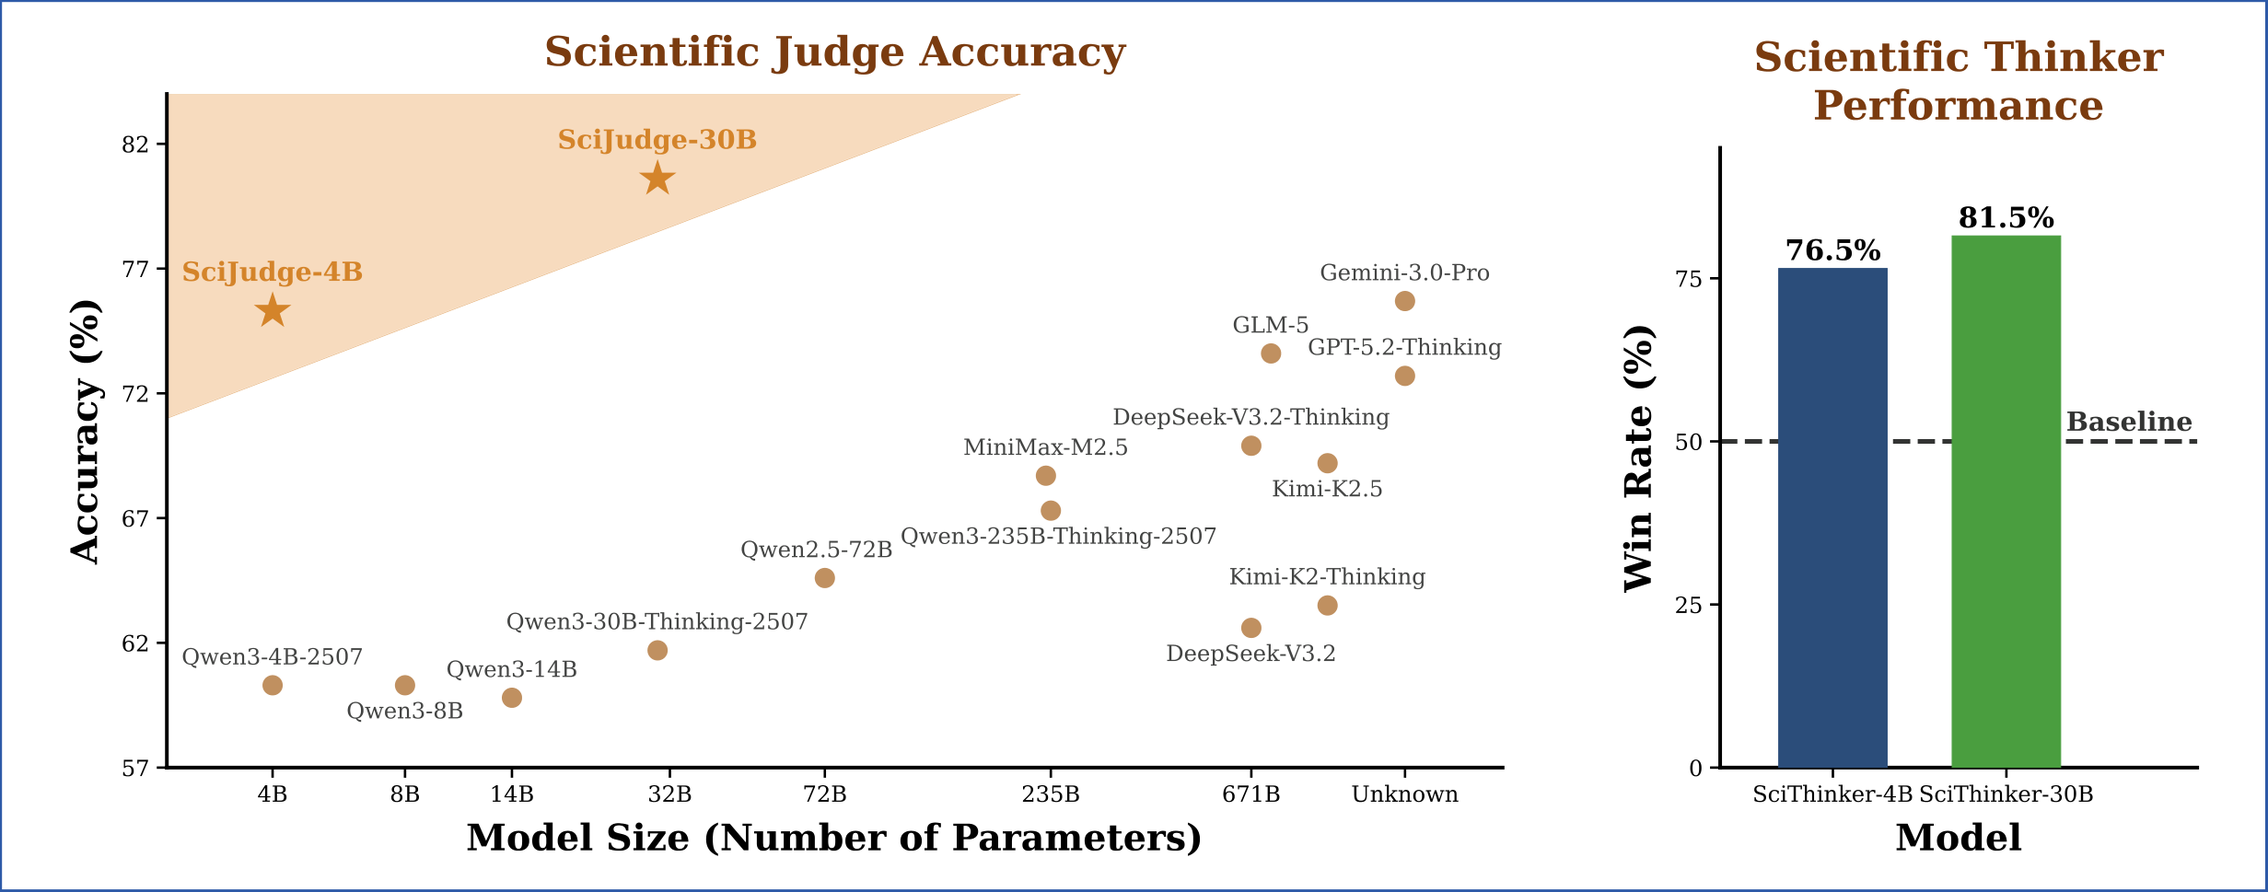
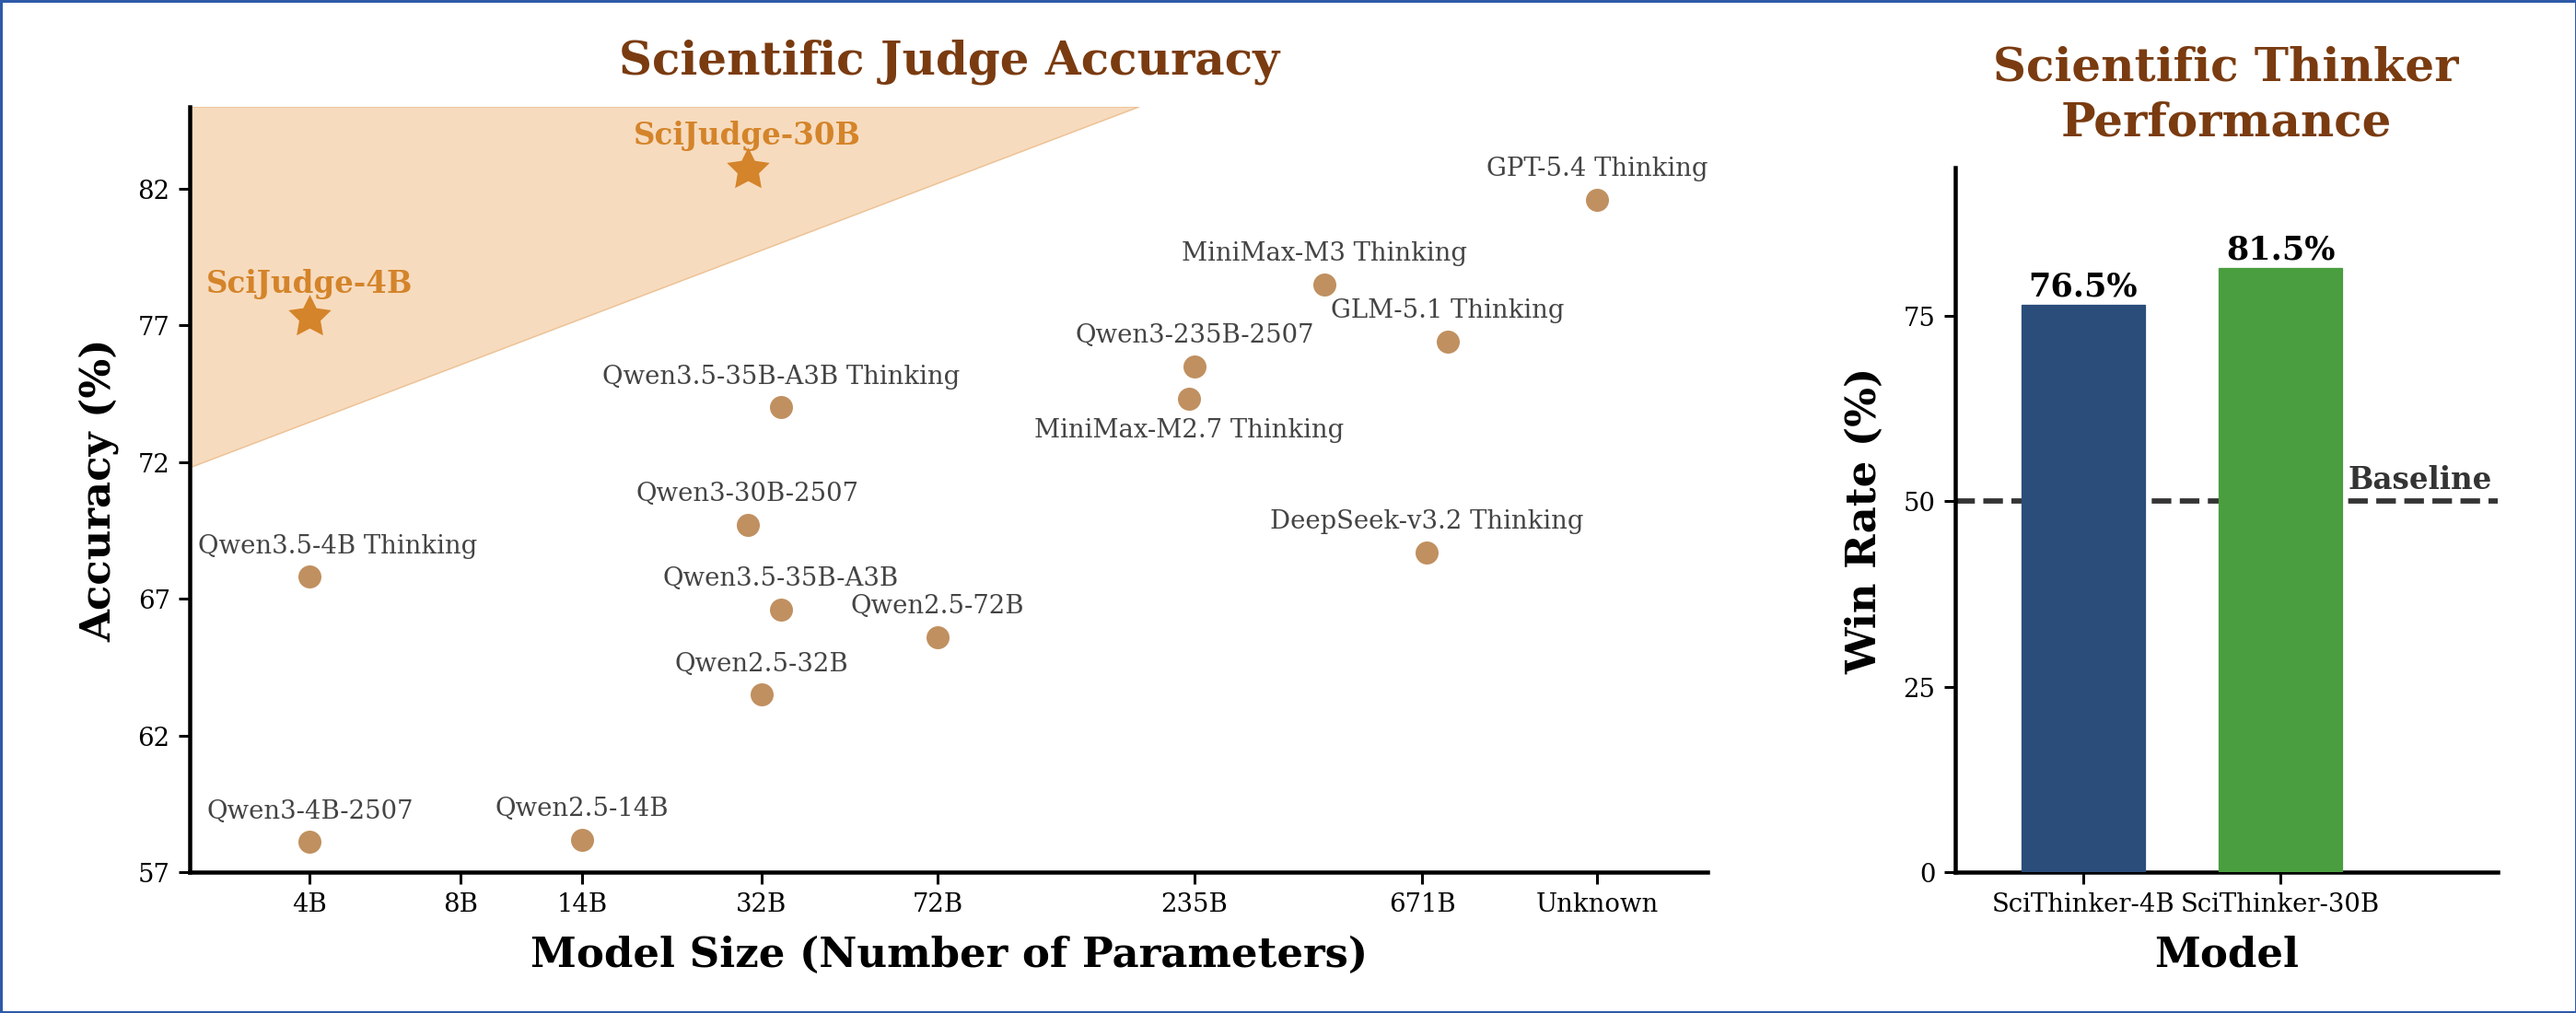
docs: refresh benchmark results

diff --git a/README_zh.md b/README_zh.md
@@ -21,6 +21,7 @@
 
 ## 🎊 最新动态
 
+- [2026.07] 📊 已更新 2025 年 Future-Year 基准与评估结果（904 对）。
 - [2026.07] 🤗 SciJudge-2506 系列已在 Hugging Face 更新。[[Collection](https://huggingface.co/collections/OpenMOSS-Team/ai-can-learn-scientific-taste)]
 - [2026.03] 🎮 在线 Demo 现已上线！[[Demo](https://paperank.open-moss.com/)]
 - [2026.03] 📄 论文已发布在 arXiv 上。[[arXiv](https://arxiv.org/abs/2603.14473)]
@@ -41,7 +42,7 @@
 
 我们提出了**基于社区反馈的强化学习（RLCF）**，这是一种利用大规模社区信号作为监督的训练范式，将科研品味的学习建模为偏好建模与对齐问题。
 
-为此，我们构建了 **SciJudgeBench**，一个包含 **696,758** 个领域和时间匹配论文对的大规模基准，来源于截至 2024 年发表的 **210 万**篇 arXiv 论文。我们在此基础上训练了：
+为此，我们构建了 **SciJudgeBench**，一个包含 **720,341** 个领域和时间匹配论文对的大规模基准，来源于截至 2024 年发表的 **210 万** 篇 arXiv 论文。我们在此基础上训练了：
 
 - **Scientific Judge**：一个生成式奖励模型，预测论文对中哪篇更可能产生更高影响力。
 - **Scientific Thinker**：一个策略模型，提出更具潜在影响力的后续研究想法。
@@ -66,7 +67,7 @@ RLCF 包含三个阶段：
 ### Scientific Judge
 
 - 一个生成式奖励模型，对配对论文摘要进行推理，预测哪篇具有更高的潜在影响力。
-- 使用 GRPO 在 696K 个领域和时间匹配的基于引用的偏好对上训练。
+- 使用 GRPO 在 720K 个领域和时间匹配的基于引用的偏好对上训练。
 - 既可作为研究想法的评估器，也可作为 Scientific Thinker 训练的奖励模型。
 
 ### Scientific Thinker
@@ -77,18 +78,19 @@ RLCF 包含三个阶段：
 
 ### SciJudgeBench
 
-- **696,758** 个偏好对，约 **140 万**篇独立论文。
+- **720,341** 个偏好对，对应 **1,440,682** 条配对层面的论文记录；同一论文可能出现在多个配对中，因此这不是独立论文数量。
 - 来源于**计算机科学**、**数学**、**物理**及**其他**科学领域的 arXiv 论文。
-- 在三种主要设置下评估：**域内**、**时间 OOD**（未来年份论文）和**指标 OOD**（ICLR 同行评审），另加 **bioRxiv** 作为跨领域补充评估。
+- 在域内、**时间 OOD**（来自 2025 年论文的 904 对）、**指标 OOD**（ICLR 同行评审分数与 Altmetric 注意力分数）、跨领域迁移及受控比较等设置下评估，另以 **bioRxiv** 作为补充生物学评估。
 
 ## 📈 主要结果
 
 我们的论文表明，科研品味可以被学习和迁移：
 
 - **科学判断力随数据规模和模型规模增长**而提升。
-- **Scientific Judge-Qwen3-30B 超越了 GPT-5.2、GLM-5 和 Gemini 3 Pro**，在域内评估中达到 80.6（最佳基线为 75.7），并泛化至未来年份论文（相对基座模型 +55.1）和 ICLR 同行评审偏好。
-- **习得的判断力可以泛化**——跨时间、跨领域（bioRxiv），从引用偏好到同行评审偏好。
-- **Scientific Thinker 达到 54.2% 的平均胜率**，超越 GPT-5.2、GLM-5 和 Gemini 3 Pro，大幅优于其基座策略模型（30.3%），在域内和域外设置上均表现出色。
+- **Scientific Judge-Qwen3-30B 的域内准确率达到 82.7%**，超过所有列出的强 LLM 基线，其中 GPT-5.4 Thinking 为 81.6%。
+- **习得的判断力可迁移至未来年份论文：**在由 2025 年论文构成、更新后的 904 对测试集上，Qwen3-4B 从 64.7% 提升至 80.9%（+16.2 个百分点），Qwen3-30B-A3B 从 71.7% 提升至 83.1%（+11.4 个百分点）。
+- **习得的判断力可跨领域和社区指标泛化**，包括 bioRxiv 生物学迁移、ICLR 同行评审偏好和 Altmetric 注意力；其增益在作者/机构及主题受控比较中仍然保持。
+- **Scientific Thinker 在域内和域外设置中，对三个强 LLM 基线的平均胜率均达到 54.2%**，其基座策略模型的对应结果分别为 30.3% 和 27.8%。
 
 <div align="center">
   <img src="assets/performance_teaser.png" width="100%" alt="主要性能结果" />
@@ -101,7 +103,7 @@ RLCF 包含三个阶段：
 ```bibtex
 @misc{tong2026ailearnscientifictaste,
     title={AI Can Learn Scientific Taste},
-    author={Jingqi Tong and Mingzhe Li and Hangcheng Li and Yongzhuo Yang and Yurong Mou and Weijie Ma and Zhiheng Xi and Hongji Chen and Xiaoran Liu and Qinyuan Cheng and Ming Zhang and Qiguang Chen and Weifeng Ge and Qipeng Guo and Tianlei Ying and Tianxiang Sun and Yining Zheng and Xinchi Chen and Jun Zhao and Ning Ding and Xuanjing Huang and Yugang Jiang and Xipeng Qiu},
+    author={Jingqi Tong and Mingzhe Li and Hangcheng Li and Yongzhuo Yang and Yurong Mou and Weijie Ma and Zhiheng Xi and Hongji Chen and Xiaoran Liu and Qinyuan Cheng and Ming Zhang and Qiguang Chen and Weifeng Ge and Qipeng Guo and Tianlei Ying and Tianxiang Sun and Yining Zheng and Xinchi Chen and Jun Zhao and Ning Ding and Xuanjing Huang and Yu-Gang Jiang and Xipeng Qiu},
     year={2026},
     eprint={2603.14473},
     archivePrefix={arXiv},
@@ -113,5 +115,3 @@ RLCF 包含三个阶段：
 ## ⚖ 许可证
 
 本项目采用 Apache License 2.0 许可证。详见 [LICENSE](LICENSE)。
-
-> **注意：** 目前发布的训练集与测试集为更新版本，数据质量有所提升，但不影响论文中的实验结论。论文中的实验结果基于先前版本的数据，新数据对应的结果将尽快更新。此外，更大尺寸和更新架构（Qwen3.5 系列）的模型仍在训练中，敬请期待！

diff --git a/README.md b/README.md
@@ -21,6 +21,7 @@ English | [中文](README_zh.md)
 
 ## 🎊 News
 
+- [2026.07] 📊 The 2025 Future-Year benchmark and evaluation results have been refreshed (904 pairs).
 - [2026.07] 🤗 The SciJudge-2506 series has been updated on Hugging Face. [[Collection](https://huggingface.co/collections/OpenMOSS-Team/ai-can-learn-scientific-taste)]
 - [2026.03] 🎮 Online Demo is now available! [[Demo](https://paperank.open-moss.com/)]
 - [2026.03] 📄 Paper available on arXiv. [[arXiv](https://arxiv.org/abs/2603.14473)]
@@ -41,7 +42,7 @@ Great scientists have strong judgement and foresight, closely tied to what we ca
 
 We propose **Reinforcement Learning from Community Feedback (RLCF)**, a training paradigm that uses large-scale community signals as supervision and formulates scientific taste learning as a preference modeling and alignment problem.
 
-To make this possible, we construct **SciJudgeBench**, a large-scale benchmark of **696,758** field- and time-matched paper pairs derived from **2.1M** arXiv papers published through 2024. We then train:
+To make this possible, we construct **SciJudgeBench**, a large-scale benchmark of **720,341** field- and time-matched paper pairs derived from **2.1M** arXiv papers published through 2024. We then train:
 
 - **Scientific Judge**: a generative reward model that predicts which paper in a pair is more likely to have higher impact.
 - **Scientific Thinker**: a policy model that proposes follow-up research ideas with higher potential impact.
@@ -66,7 +67,7 @@ RLCF consists of three stages:
 ### Scientific Judge
 
 - A generative reward model that reasons over paired paper abstracts and predicts which has higher potential impact.
-- Trained with GRPO on 696K field- and time-matched citation-based preference pairs.
+- Trained with GRPO on 720K field- and time-matched citation-based preference pairs.
 - Serves both as an evaluator of research ideas and as the reward model for Scientific Thinker training.
 
 ### Scientific Thinker
@@ -77,18 +78,19 @@ RLCF consists of three stages:
 
 ### SciJudgeBench
 
-- **696,758** preference pairs and roughly **1.4M** unique papers.
+- **720,341** preference pairs and **1,440,682** pair-level paper records; papers may recur across pairs, so this is not a unique-paper count.
 - Built from arXiv papers across **Computer Science**, **Mathematics**, **Physics**, and **Other** scientific fields.
-- Evaluated on three main settings: **in-domain**, **temporal OOD** (future-year papers), and **metric OOD** (ICLR peer review), plus **bioRxiv** as an additional cross-field evaluation.
+- Evaluated in-domain and across **temporal OOD** (904 pairs from papers published in 2025), **metric OOD** (ICLR peer review and Altmetric attention), field-transfer, and controlled-comparison settings, with **bioRxiv** as an additional biology evaluation.
 
 ## 📈 Key Results
 
 Our paper shows that scientific taste can be learned and transferred:
 
 - **Scientific judgement scales** with both data size and model size.
-- **Scientific Judge-Qwen3-30B surpasses GPT-5.2, GLM-5, and Gemini 3 Pro** on in-domain evaluation (80.6 vs. 75.7 for the best baseline), and generalizes to future-year papers (+55.1 points over base) and ICLR peer-review preference.
-- **Learned judgement generalizes** across time, across fields (bioRxiv), and from citations to peer-review preferences.
-- **Scientific Thinker achieves 54.2% average win-rate** against GPT-5.2, GLM-5, and Gemini 3 Pro, strongly outperforming its base policy (30.3%) on both in-domain and out-of-domain settings.
+- **Scientific Judge-Qwen3-30B reaches 82.7% in-domain accuracy**, surpassing all listed strong LLM baselines, including GPT-5.4 Thinking at 81.6%.
+- **Learned judgement transfers to future-year papers:** on the refreshed 904-pair test set from papers published in 2025, Qwen3-4B improves from 64.7% to 80.9% (+16.2 points), and Qwen3-30B-A3B improves from 71.7% to 83.1% (+11.4 points).
+- **Learned judgement generalizes** across fields and community metrics, including bioRxiv biology transfer, ICLR peer-review preferences, and Altmetric attention, while its gains persist under author/institution and topic controls.
+- **Scientific Thinker achieves a 54.2% average win rate** against three strong LLM baselines in both in-domain and out-of-domain settings, compared with 30.3% and 27.8% for its base policy, respectively.
 
 <div align="center">
   <img src="assets/performance_teaser.png" width="100%" alt="Main performance results" />
@@ -110,5 +112,3 @@ If you find our work helpful, please consider citing:
 ## ⚖ License
 
 This project is licensed under the Apache License 2.0. See [LICENSE](LICENSE) for details.
-
-> **Note:** The currently released training and test sets are updated versions with improved data quality. This update does not affect the experimental conclusions reported in the paper. The results in the paper were based on earlier versions of the data; updated results on the new data will be released soon. Additionally, larger models with newer architectures (Qwen3.5 series) are still under training — stay tuned!
